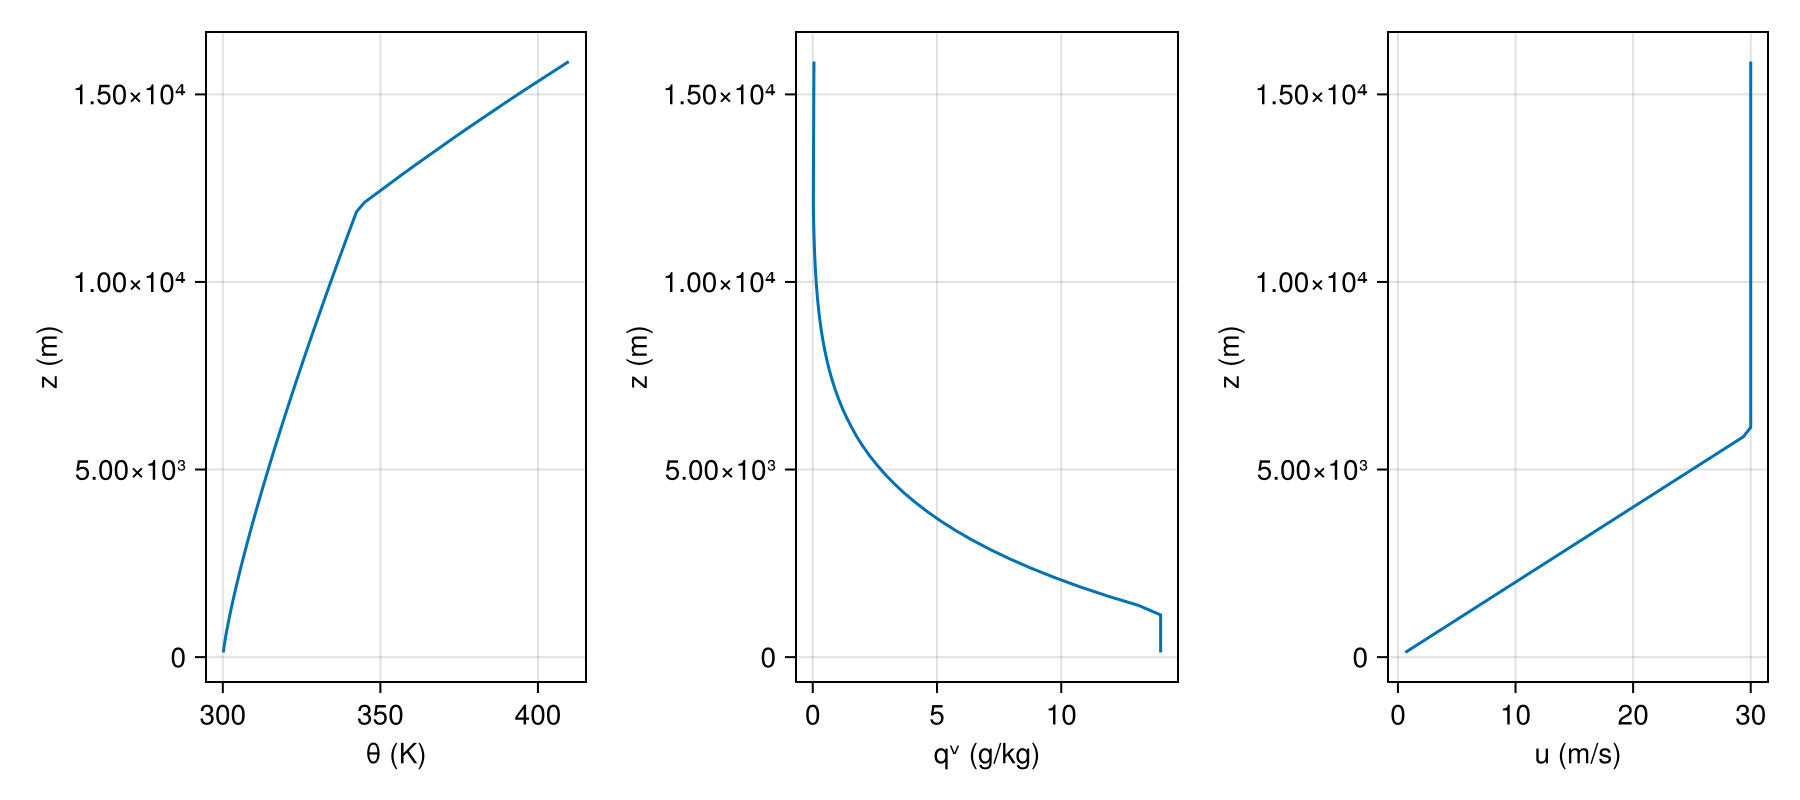
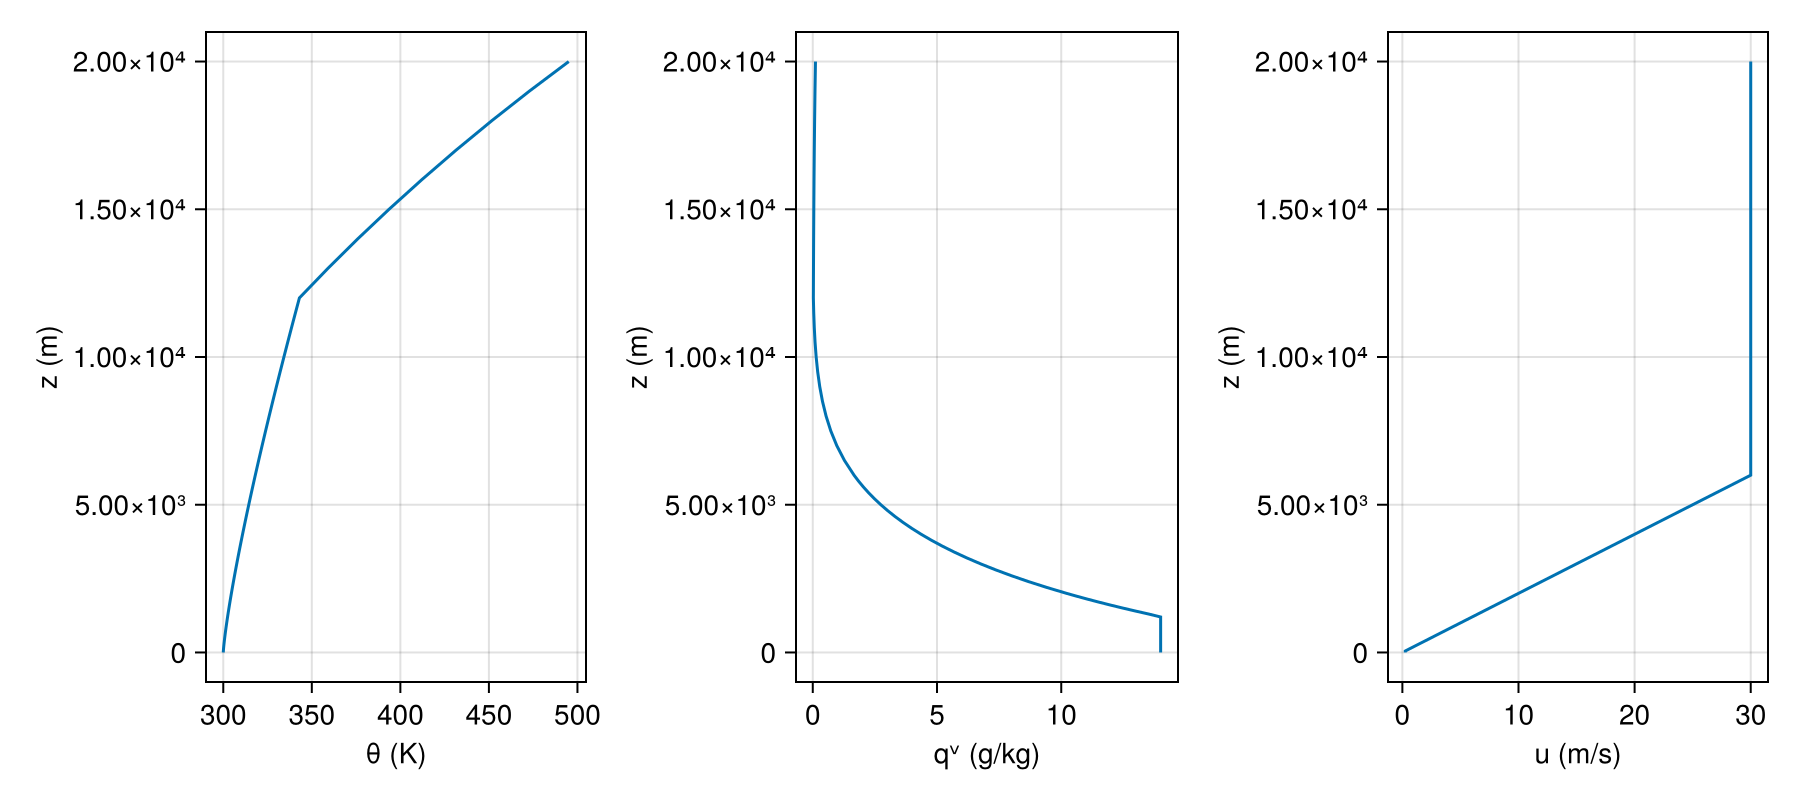
Val-dispatch example_sounding; move Sounding docstring to constructor; lighter README quickstart
- example_sounding(name::Symbol) now dispatches on Val(name) to per-name
  methods. Adding a new bundled example is one line:

      LegacyConnectors.example_sounding(::Val{:my_one}) =
          joinpath(pkgdir(LegacyConnectors), "data", "soundings", "my_one.txt")

  The Val{name} fallback introspects existing methods so the
  "Available: ..." error message stays in sync with whatever
  specializations have been defined (in the package or by downstream).

- The Sounding docstring lives on the constructor function now rather
  than the struct, matching Julia convention for type-with-outer-
  constructor documentation.

- README quickstart drops the interpolate! step — sounding profile
  fields are already Oceananigans Fields, so the Makie ext plots them
  directly. interpolate! still has its own subsection further down for
  the model-grid case, and the literated examples keep showing it.

- README PNG re-rendered: now showing the full 20 km of the sounding's
  own column grid (rather than the 16 km of the previous model-grid
  target), so θ extends up to ~500 K.

diff --git a/README.md b/README.md
@@ -23,43 +23,48 @@ Pkg.add(url = "https://github.com/NumericalEarth/LegacyConnectors.jl")
 
 ## Quickstart
 
-Read a sounding, interpolate its profiles onto Oceananigans `Field`s
-on a Breeze grid, and plot them with the Oceananigans Makie extension:
+Read a sounding and plot its profiles directly — they're Oceananigans
+`Field`s on a column grid, so the Makie extension knows how to draw
+them:
 
 ![Quickstart: θ, qᵛ, u profiles from the Weisman–Klemp 1982 sounding](docs/src/assets/readme_quickstart.png)
 
 ```julia
 using LegacyConnectors, Breeze, CairoMakie
-import Breeze.Oceananigans.Fields: interpolate!
 
 sounding = Sounding(:weisman_klemp_1982)   # or Sounding("/path/to/input_sounding")
-
-grid = RectilinearGrid(CPU(); size = (1, 1, 64),
-                       x = (0, 1), y = (0, 1), z = (0, 16_000),
-                       topology = (Periodic, Periodic, Bounded))
-
-θ, qᵛ, u = (CenterField(grid) for _ in 1:3)
-interpolate!(θ,  sounding.potential_temperature)
-interpolate!(qᵛ, sounding.specific_humidity)
-interpolate!(u,  sounding.x_momentum)
 
 fig = Figure(size = (900, 400))
 ax_θ  = Axis(fig[1, 1]; xlabel = "θ (K)",     ylabel = "z (m)")
 ax_qᵛ = Axis(fig[1, 2]; xlabel = "qᵛ (g/kg)", ylabel = "z (m)")
 ax_u  = Axis(fig[1, 3]; xlabel = "u (m/s)",   ylabel = "z (m)")
-lines!(ax_θ,  θ)
-lines!(ax_qᵛ, qᵛ * 1000)
-lines!(ax_u,  u)
+lines!(ax_θ,  sounding.potential_temperature)
+lines!(ax_qᵛ, sounding.specific_humidity * 1000)
+lines!(ax_u,  sounding.x_momentum)
 fig
 ```
 
-`Sounding` is concretely typed: its `potential_temperature`,
-`specific_humidity`, `x_momentum`, and `y_momentum` fields are all
-Oceananigans `Field{Nothing, Nothing, Face}` columns whose face
-positions sit exactly at the file's z-levels (with z = 0 prepended for
-the surface). The package extends `interpolate!` for that column type
-so cross-grid filling does the right thing — linear in z, broadcast in
-x, y.
+`Sounding` is concretely typed: each profile field is a
+`Field{Nothing, Nothing, Face}` on a column grid whose z-faces are
+exactly the file's z-levels (with `0.0` prepended for the surface).
+
+## Filling a model grid
+
+When you're ready to initialize a Breeze simulation, fill its
+prognostic `Field`s with `Oceananigans.Fields.interpolate!`. The
+package extends `interpolate!` for the column-source case (linear in
+z, broadcast in x, y), so this works across any model grid:
+
+```julia
+import Breeze.Oceananigans.Fields: interpolate!
+
+grid = RectilinearGrid(CPU(); size = (64, 64, 64),
+                       x = (0, 10_000), y = (0, 10_000), z = (0, 16_000),
+                       topology = (Periodic, Periodic, Bounded))
+
+θ = CenterField(grid)
+interpolate!(θ, sounding.potential_temperature)
+```
 
 To go further and build the hydrostatic base state Breeze uses for
 its anelastic / compressible split, pass the same sounding to
@@ -67,24 +72,16 @@ its anelastic / compressible split, pass the same sounding to
 
 ```julia
 ref = LegacyConnectors.reference_state(sounding, grid)
-# ref.pressure, ref.density, ref.temperature are Fields — plot them
-# the same way.
+# ref.pressure, ref.density, ref.temperature are Fields you can plot
+# or pass straight to a Breeze model.
 ```
 
 The literated examples walk through both paths in detail — and the
-Weisman & Klemp example makes the case for skipping the file
-entirely when you have analytic forms:
+Weisman & Klemp example makes the case for skipping the file entirely
+when you have analytic forms:
 
 - [Weisman & Klemp 1982: analytic vs sounding](https://numericalearth.github.io/LegacyConnectors.jl/dev/literated/weisman_klemp_supercell/)
 - [Loading a real sounding into Breeze (KABQ + ReferenceState)](https://numericalearth.github.io/LegacyConnectors.jl/dev/literated/breeze_field/)
-
-If you only need the raw profile (no Breeze dep):
-
-```julia
-using LegacyConnectors
-sounding = Sounding(:weisman_klemp_1982)
-@show sounding.surface_pressure, length(sounding)
-```
 
 ## Bundled example soundings
 
@@ -93,6 +90,9 @@ sounding = Sounding(:weisman_klemp_1982)
 | `:weisman_klemp_1982` | Analytic supercell sounding, regenerable from `data/soundings/generate_weisman_klemp_1982.jl`. |
 | `:kabq_radiosonde`    | KABQ radiosonde, 2025-07-15 00Z. |
 | `:abudhabi_gfs`       | Abu Dhabi GFS point forecast, 2025-07-15 12Z. |
+
+Adding your own is a one-line method on `example_sounding` (see its
+docstring) — `Val(symbol)` dispatch keeps the table extensible.
 
 See [`data/soundings/README.md`](data/soundings/README.md) for full
 provenance.
